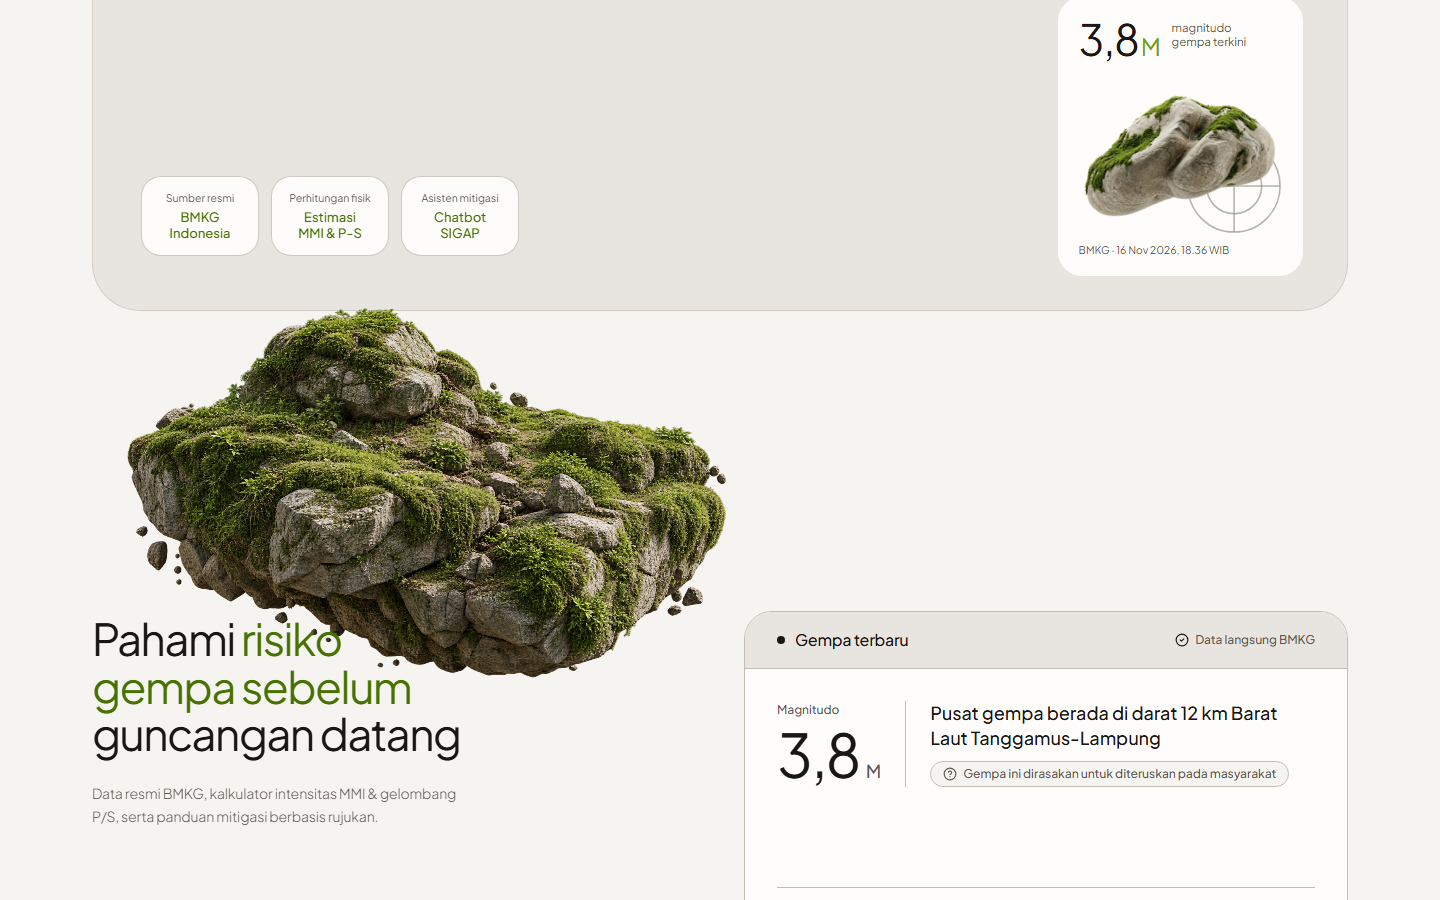
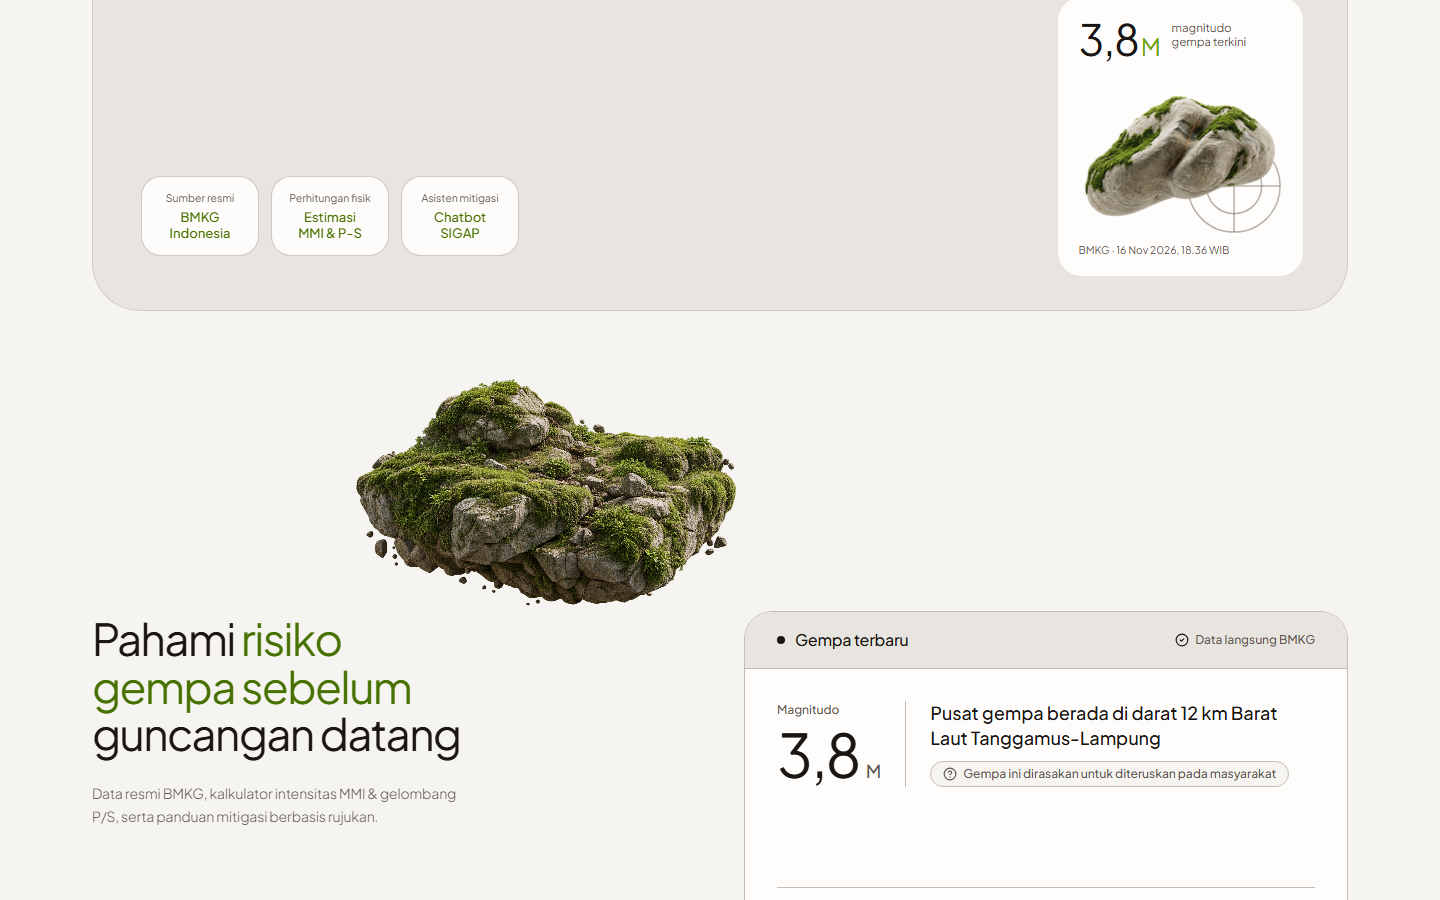
polish(beranda): perhalus kurva gerak, damping, dan reticle episentrum scroll batu

Changed region(s): [[0.0625, 0.3422, 0.5312, 0.7778]]

diff --git a/src/components/beranda/HeroScrollRock.tsx b/src/components/beranda/HeroScrollRock.tsx
@@ -5,6 +5,7 @@ import React, { useEffect, useRef } from "react";
 interface HeroScrollRockProps {
   targetId: string;
   targetSectionId: string;
+  reticleId?: string;
 }
 
 interface ScrollMetrics {
@@ -18,14 +19,20 @@ interface ScrollMetrics {
   active: boolean;
 }
 
+function clamp01(value: number): number {
+  return Math.min(Math.max(value, 0), 1);
+}
+
 /**
  * Menggerakkan dan mengecilkan fragmen batu tektonik Hero mengikuti progres
  * scroll menuju slot dekoratif di Section 2 pada layar desktop (`lg:`).
- * Nonaktif secara otomatis pada layar sempit dan saat `prefers-reduced-motion`.
+ * Memakai kurva susut cepat + lengkungan gerak ke kanan agar tidak menutupi
+ * tipografi Section 2, dengan exponential damping agar guliran roda mouse halus.
  */
 export function HeroScrollRock({
   targetId,
   targetSectionId,
+  reticleId,
 }: HeroScrollRockProps) {
   const rockRef = useRef<HTMLDivElement | null>(null);
   const metricsRef = useRef<ScrollMetrics | null>(null);
@@ -36,29 +43,85 @@ export function HeroScrollRock({
 
     const motionQuery = window.matchMedia("(prefers-reduced-motion: reduce)");
     let rafId = 0;
+    let lastTs = 0;
+    let currentProgress = 0;
+    let targetProgress = 0;
 
-    const applyTransform = () => {
-      rafId = 0;
+    const renderProgress = (p: number) => {
       const metrics = metricsRef.current;
+      const reticleEl = reticleId ? document.getElementById(reticleId) : null;
+
       if (!metrics || !metrics.active) {
         rockEl.style.transform = "";
+        if (reticleEl) {
+          reticleEl.style.opacity = "";
+          reticleEl.style.transform = "";
+        }
         return;
       }
 
-      const raw = Math.min(Math.max(window.scrollY / metrics.endScroll, 0), 1);
-      // Smoothstep agar transisi keluar Hero dan mendarat di Section 2 terasa halus tanpa menyentak
-      const eased = raw * raw * (3 - 2 * raw);
-      const targetScale = metrics.targW / metrics.origW;
-      const scale = 1 + (targetScale - 1) * eased;
-      const dx = (metrics.targCx - metrics.origCx) * eased;
-      const dy = (metrics.targCy - metrics.origCy) * eased;
+      // Susut lebih awal saat keluar Hero supaya batu segera ramping di ruang terbuka
+      const easeScale = 1 - Math.pow(1 - p, 2.35);
+      const easeMove = p * p * (3 - 2 * p);
+      const arcX = Math.sin(Math.PI * p) * 120;
+      const rotateDeg = Math.sin(Math.PI * p) * -5.5;
 
-      rockEl.style.transform = `translate3d(${dx.toFixed(2)}px, ${dy.toFixed(2)}px, 0) scale(${scale.toFixed(4)})`;
+      const targetScale = metrics.targW / metrics.origW;
+      const scale = 1 + (targetScale - 1) * easeScale;
+      const dx = (metrics.targCx - metrics.origCx) * easeMove + arcX;
+      const dy = (metrics.targCy - metrics.origCy) * easeMove;
+
+      rockEl.style.transform = `translate3d(${dx.toFixed(2)}px, ${dy.toFixed(2)}px, 0) rotate(${rotateDeg.toFixed(2)}deg) scale(${scale.toFixed(4)})`;
+
+      if (reticleEl) {
+        const dock = clamp01((p - 0.62) / 0.38);
+        const dockEase = dock * dock * (3 - 2 * dock);
+        reticleEl.style.opacity = (dockEase * 0.72).toFixed(3);
+        reticleEl.style.transform = `scale(${(0.84 + 0.16 * dockEase).toFixed(4)})`;
+      }
     };
 
-    const scheduleApply = () => {
+    const tick = (ts: number) => {
+      const dt = lastTs ? Math.min((ts - lastTs) / 1000, 0.05) : 0.016;
+      lastTs = ts;
+
+      const factor = 1 - Math.exp(-13 * dt);
+      currentProgress += (targetProgress - currentProgress) * factor;
+
+      if (Math.abs(targetProgress - currentProgress) < 0.0004) {
+        currentProgress = targetProgress;
+        renderProgress(currentProgress);
+        rafId = 0;
+        lastTs = 0;
+        return;
+      }
+
+      renderProgress(currentProgress);
+      rafId = window.requestAnimationFrame(tick);
+    };
+
+    const startTick = () => {
       if (rafId !== 0) return;
-      rafId = window.requestAnimationFrame(applyTransform);
+      lastTs = 0;
+      rafId = window.requestAnimationFrame(tick);
+    };
+
+    const syncTarget = (immediate = false) => {
+      const metrics = metricsRef.current;
+      if (!metrics || !metrics.active) {
+        targetProgress = 0;
+        currentProgress = 0;
+        renderProgress(0);
+        return;
+      }
+
+      targetProgress = clamp01(window.scrollY / metrics.endScroll);
+      if (immediate) {
+        currentProgress = targetProgress;
+        renderProgress(currentProgress);
+      } else {
+        startTick();
+      }
     };
 
     const measure = () => {
@@ -68,7 +131,11 @@ export function HeroScrollRock({
 
       if (!targetEl || !sectionEl || !isDesktop || motionQuery.matches) {
         metricsRef.current = null;
-        rockEl.style.transform = "";
+        if (rafId !== 0) {
+          window.cancelAnimationFrame(rafId);
+          rafId = 0;
+        }
+        renderProgress(0);
         return;
       }
 
@@ -80,7 +147,7 @@ export function HeroScrollRock({
 
       if (origRect.width <= 0 || targRect.width <= 0) {
         metricsRef.current = null;
-        rockEl.style.transform = "";
+        renderProgress(0);
         return;
       }
 
@@ -98,7 +165,7 @@ export function HeroScrollRock({
         active: true,
       };
 
-      applyTransform();
+      syncTarget(true);
     };
 
     measure();
@@ -109,7 +176,7 @@ export function HeroScrollRock({
     const resizeObserver = new ResizeObserver(() => measure());
     resizeObserver.observe(document.body);
 
-    const onScroll = () => scheduleApply();
+    const onScroll = () => syncTarget(false);
     const onResize = () => measure();
     const onMotionChange = () => measure();
 
@@ -124,7 +191,7 @@ export function HeroScrollRock({
       window.removeEventListener("resize", onResize);
       motionQuery.removeEventListener("change", onMotionChange);
     };
-  }, [targetId, targetSectionId]);
+  }, [targetId, targetSectionId, reticleId]);
 
   return (
     <div

diff --git a/src/app/page.tsx b/src/app/page.tsx
@@ -280,6 +280,7 @@ export default async function HomePage() {
             <HeroScrollRock
               targetId="sec2-rock-target"
               targetSectionId="ringkasan-sigap-section"
+              reticleId="sec2-rock-reticle"
             />
 
             {/* 3 CHIP KECIL DI SUDUT KIRI BAWAH (DI DEPAN BATU) */}
@@ -378,11 +379,26 @@ export default async function HomePage() {
                 aria-hidden="true"
                 className="hidden lg:flex w-full max-w-[32rem] justify-center py-2 pointer-events-none"
               >
-                <div id="sec2-rock-target" className="w-[240px] h-[150px] shrink-0">
+                <div
+                  id="sec2-rock-target"
+                  className="relative w-[240px] h-[150px] shrink-0 flex items-center justify-center"
+                >
+                  <svg
+                    id="sec2-rock-reticle"
+                    viewBox="0 0 220 140"
+                    className="absolute inset-0 w-full h-full text-[var(--color-border)] opacity-0 motion-reduce:opacity-70"
+                    fill="none"
+                    stroke="currentColor"
+                    strokeWidth="1"
+                  >
+                    <circle cx="110" cy="70" r="64" strokeDasharray="3 4" />
+                    <circle cx="110" cy="70" r="40" />
+                    <path d="M110 2v136M38 70h144" opacity="0.55" />
+                  </svg>
                   <img
                     src="/images/tectonic-island.png"
                     alt=""
-                    className="hidden motion-reduce:block w-full h-full object-contain select-none opacity-90"
+                    className="hidden motion-reduce:block relative z-10 w-full h-full object-contain select-none opacity-90"
                   />
                 </div>
               </div>
